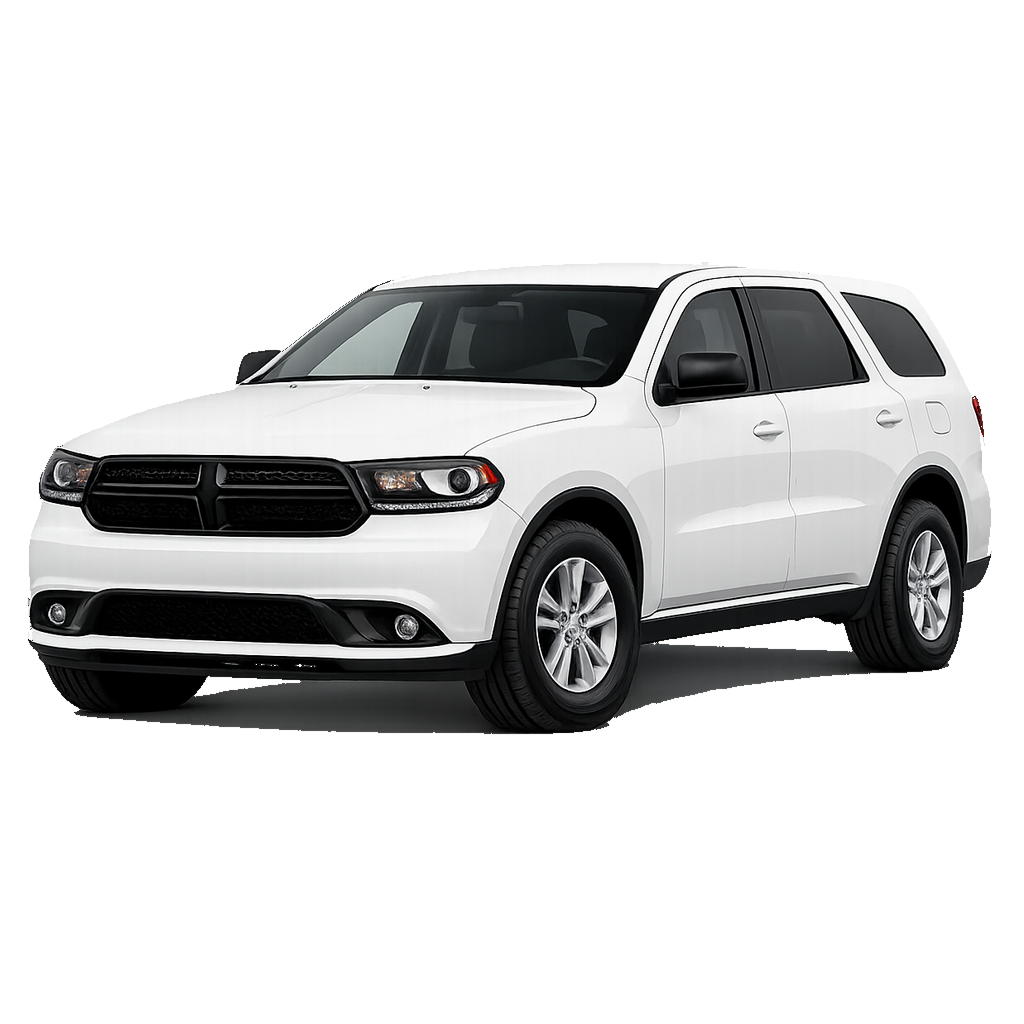
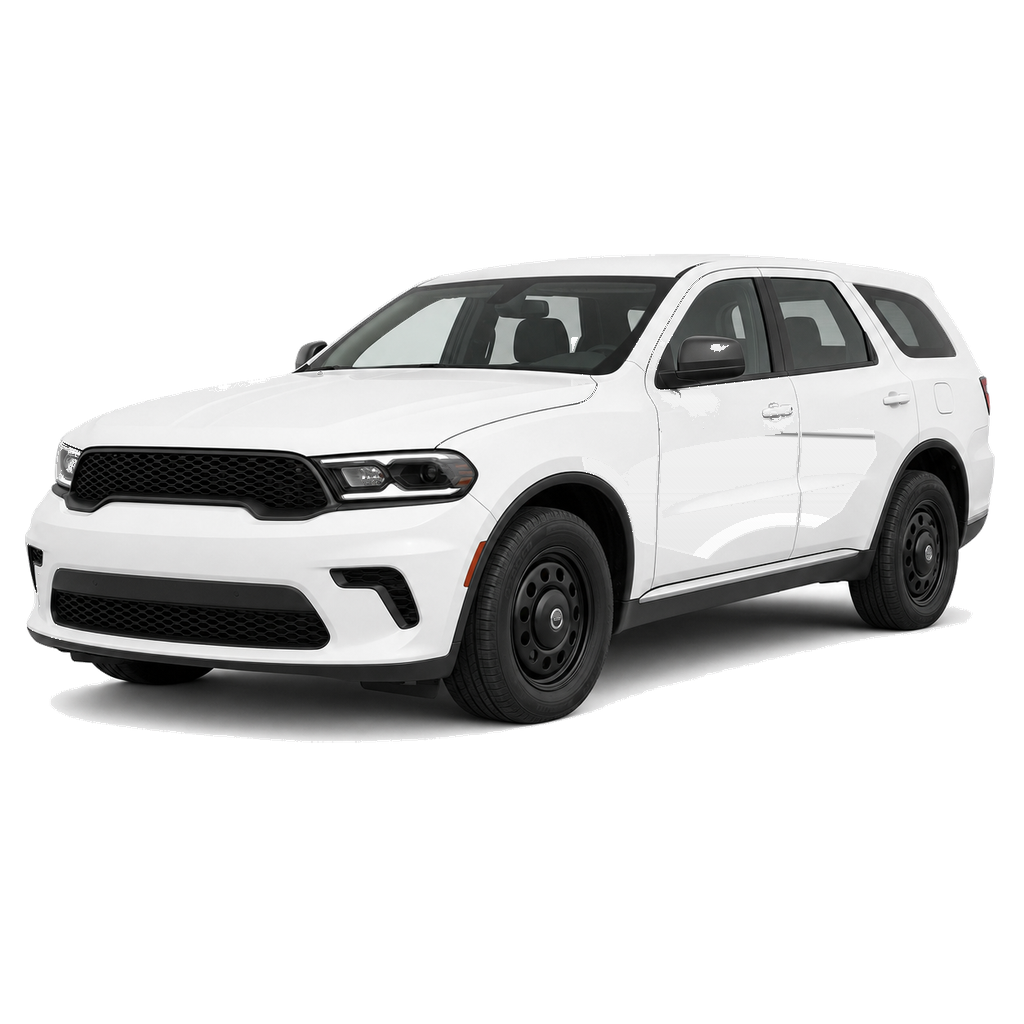
Restore Integrity Durango Hero plate (Pursuit, not civilian piu)
Revert visualizer/durango_hero.png to the parent of 50675528 (548602 bytes).
The studio8 Hero was a civilian alloy-wheel Durango and did not match the
signed-off Pursuit Front. No recut. Right/Rear/Hatch Open cuts stay.
Bump ASSET_V to studio9.

Changed region(s): [[0.0, 0.25, 0.9688, 0.75]]

diff --git a/visualizer/index.html b/visualizer/index.html
@@ -200,7 +200,7 @@ select:focus,input[type=text]:focus{box-shadow:0 0 0 2px color-mix(in srgb,var(-
 (function(){
 /* Multi-canvas visualizer. Catalog is shared FedSig SKUs (no invented lights).
    Durango mounts stay as previously signed; trucks have their own snaps. */
-var ASSET_V="studio8";
+var ASSET_V="studio9";
 var FX_V="max4";
 var DURANGO_VIEWS=[
   {id:"front",label:"Front",imgW:"durango_front.png",imgB:"durango_front_black.png"},
